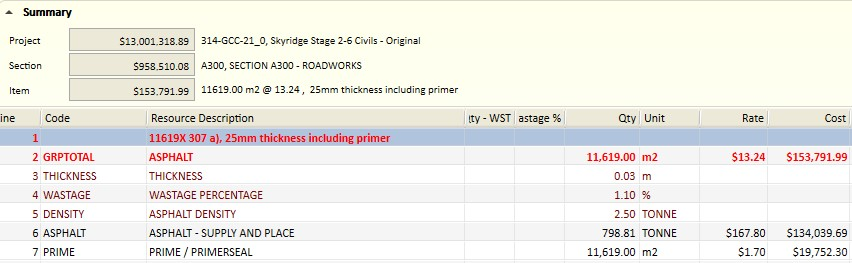
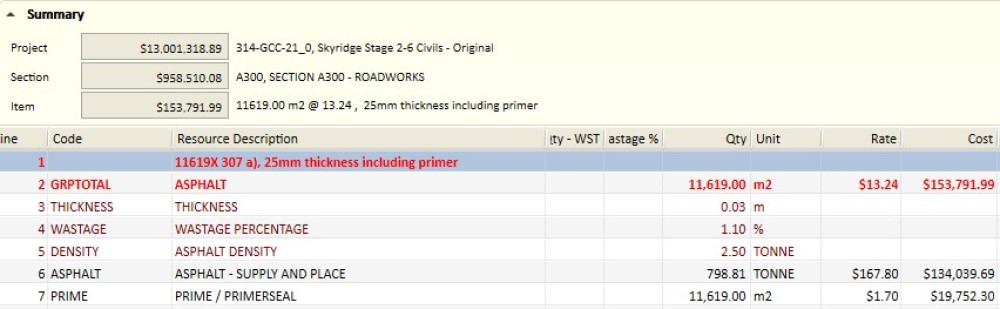
adjust asphalt skyridge image

diff --git a/4-asphalt-skyridge.html b/4-asphalt-skyridge.html
@@ -6,10 +6,10 @@
 <body>
 <div class="img-comp-container img-right" id="img-container">
   <div class="img-comp-img">
-    <img src="./img/asphalt-skyridge-right.jpg" width="852" height="263">
+    <img src="./img/asphalt-skyridge-right.jpg" width="1000" height="311">
   </div>
   <div class="img-comp-img img-comp-overlay img-left">
-    <img src="./img/asphalt-skyridge-left.jpg" width="852" height="263">
+    <img src="./img/asphalt-skyridge-left.jpg" width="1000" height="311">
   </div>
 </div>
 
